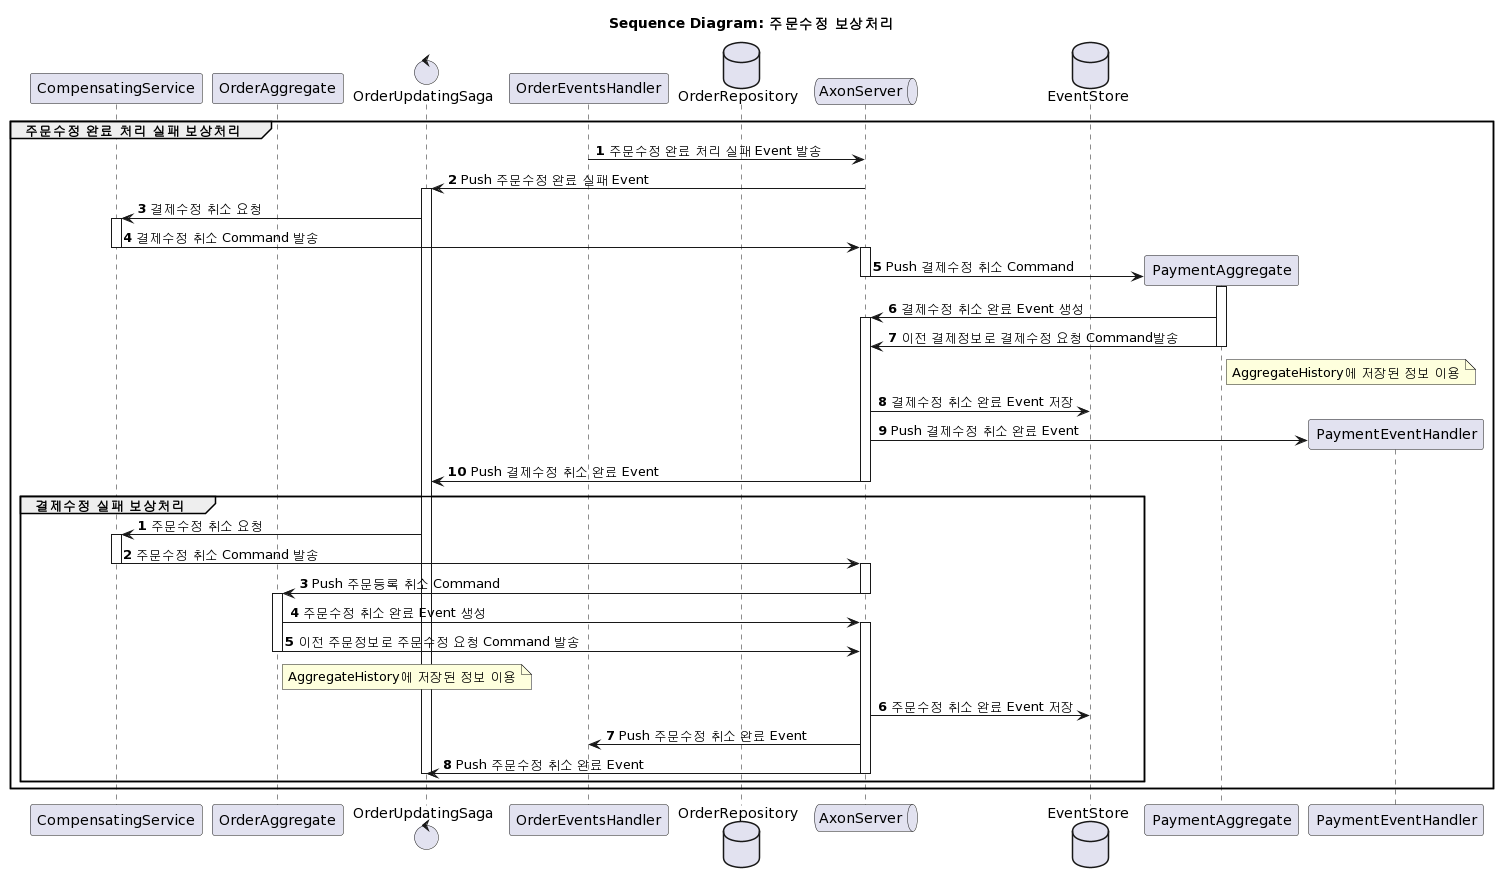
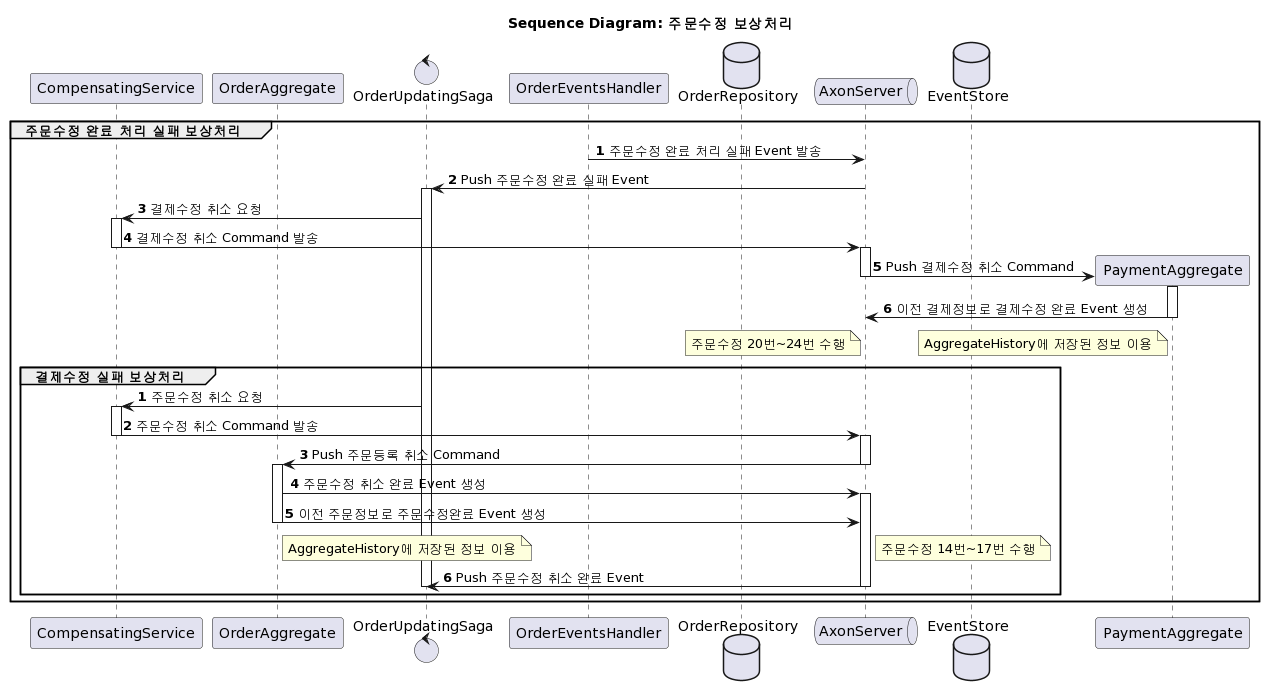
change sequence diagram

diff --git a/payment/src/main/java/com/agilemall/payment/aggregate/PaymentAggregate.java b/payment/src/main/java/com/agilemall/payment/aggregate/PaymentAggregate.java
@@ -8,6 +8,7 @@ import com.agilemall.common.command.update.CancelUpdatePaymentCommand;
 import com.agilemall.common.command.update.UpdatePaymentCommand;
 import com.agilemall.common.dto.PaymentDTO;
 import com.agilemall.common.dto.PaymentDetailDTO;
+import com.agilemall.common.dto.PaymentStatusEnum;
 import com.agilemall.common.events.create.CancelledCreatePaymentEvent;
 import com.agilemall.common.events.create.CreatedPaymentEvent;
 import com.agilemall.common.events.delete.DeletedPaymentEvent;
@@ -143,28 +144,18 @@ public class PaymentAggregate {
     private void handle(CancelUpdatePaymentCommand cancelUpdatePaymentCommand) {
         log.info("[@CommandHandler] Executing CancelUpdatePaymentCommand for Order Id: {} and Payment Id: {}",
                 cancelUpdatePaymentCommand.getOrderId(), cancelUpdatePaymentCommand.getPaymentId());
-        CancelledUpdatePaymentEvent cancelledUpdatePaymentEvent = new CancelledUpdatePaymentEvent();
-        BeanUtils.copyProperties(cancelUpdatePaymentCommand, cancelledUpdatePaymentEvent);
 
-        AggregateLifecycle.apply(cancelledUpdatePaymentEvent);
-
-        //-- 이전 결제정보를 담은 결제 정보 수정 Command를 발송함
         if(this.aggregateHistory.isEmpty()) return;
         PaymentDTO payment = this.aggregateHistory.get(this.aggregateHistory.size()-1);
-        UpdatePaymentCommand cmd = UpdatePaymentCommand.builder()
-                .paymentId(payment.getPaymentId())
-                .orderId(payment.getOrderId())
-                .totalPaymentAmt(payment.getTotalPaymentAmt())
-                .paymentStatus(payment.getPaymentStatus())
-                .paymentDetails(payment.getPaymentDetails())
-                .isCompensation(cancelUpdatePaymentCommand.isCompensation())
-                .build();
-        commandGateway.send(cmd);
-    }
 
-    @EventSourcingHandler
-    private void on(CancelledUpdatePaymentEvent event) {
-        log.info("[@EventSourcingHandler] Executing <CancelledUpdatePaymentEvent> for Order Id: {}", event.getOrderId());
+        UpdatedPaymentEvent event = new UpdatedPaymentEvent();
+        event.setPaymentId(payment.getPaymentId());
+        event.setOrderId(payment.getOrderId());
+        event.setTotalPaymentAmt(payment.getTotalPaymentAmt());
+        event.setPaymentDetails(payment.getPaymentDetails());
+        event.setPaymentStatus(payment.getPaymentStatus());
+        event.setCompensation(true);
+        AggregateLifecycle.apply(event);
 
     }
 
@@ -179,8 +170,8 @@ public class PaymentAggregate {
     private void on(DeletedPaymentEvent event) {
         log.info("[@EventSourcingHandler] Executing DeletedPaymentEvent for Order Id: {} and Payment Id: {}",
                 event.getOrderId(), event.getPaymentId());
-        //this.paymentStatus = PaymentStatusEnum.ORDER_CANCLLED.value();
-        AggregateLifecycle.markDeleted();
+        this.paymentStatus = PaymentStatusEnum.ORDER_CANCLLED.value();
+        //AggregateLifecycle.markDeleted();
     }
 
     @CommandHandler
@@ -188,17 +179,16 @@ public class PaymentAggregate {
         log.info("[@EventSourcingHandler] Executing CancelDeletePaymentCommand for Order Id: {} and Payment Id: {}",
                 cancelDeletePaymentCommand.getOrderId(), cancelDeletePaymentCommand.getPaymentId());
 
-        //-- 이전 결제 정보를 담은 Command객체를 담아 생성 요청을 보냄
+        //-- 이전 결제 정보를 담은 Event객체를 담아 생성처리가 되게 함
         if(this.aggregateHistory.isEmpty()) return;
         PaymentDTO payment = this.aggregateHistory.get(this.aggregateHistory.size()-1);
-        CreatePaymentCommand cmd = CreatePaymentCommand.builder()
-                .paymentId(payment.getPaymentId())
-                .orderId(payment.getOrderId())
-                .totalPaymentAmt(payment.getTotalPaymentAmt())
-                .paymentDetails(payment.getPaymentDetails())
-                .isCompensation(true)
-                .build();
-        commandGateway.send(cmd);
+        CreatedPaymentEvent event = new CreatedPaymentEvent();
+        event.setPaymentId(payment.getPaymentId());
+        event.setOrderId(payment.getOrderId());
+        event.setTotalPaymentAmt(payment.getTotalPaymentAmt());
+        event.setPaymentDetails(payment.getPaymentDetails());
+        event.setCompensation(true);
+        AggregateLifecycle.apply(event);
     }
 
     private PaymentDTO cloneAggregate(PaymentAggregate paymentAggregate) {

diff --git a/order/src/main/java/com/agilemall/order/aggregate/OrderAggregate.java b/order/src/main/java/com/agilemall/order/aggregate/OrderAggregate.java
@@ -190,7 +190,7 @@ public class OrderAggregate {
         this.aggregateHistory.add(cloneAggregate(this));    //보상처리를 위해 이전 정보 저장
 
         this.orderDatetime = event.getOrderDatetime();
-        this.orderStatus = OrderStatusEnum.UPTATED.value();
+        this.orderStatus = event.getOrderStatus();
         this.totalOrderAmt = event.getTotalOrderAmt();
         List<OrderDetail> orderDetails = this.orderDetails.stream().toList();
         this.orderDetails.clear();
@@ -240,34 +240,21 @@ public class OrderAggregate {
     private void handle(CancelUpdateOrderCommand cancelUpdateOrderCommand) {
         log.info("[@CommandHandler] Executing <CancelUpdateOrderCommand> for Order Id: {}", cancelUpdateOrderCommand.getOrderId());
 
-        CancelledUpdateOrderEvent cancelledUpdateOrderEvent = new CancelledUpdateOrderEvent();
-        cancelledUpdateOrderEvent.setOrderId(cancelUpdateOrderCommand.getOrderId());
+        AggregateLifecycle.apply(new CancelledUpdateOrderEvent(cancelUpdateOrderCommand.getOrderId()));
 
-        AggregateLifecycle.apply(cancelledUpdateOrderEvent);
-
-        //-- send UpdateOrderCommand to compensate
         if(this.aggregateHistory.isEmpty()) return;
-
         OrderDTO order = this.aggregateHistory.get(this.aggregateHistory.size() - 1);
-        UpdateOrderCommand cmd = UpdateOrderCommand.builder()
-                .orderId(order.getOrderId())
-                .orderDatetime(order.getOrderDatetime())
-                .totalOrderAmt(order.getTotalOrderAmt())
-                .orderDetails(order.getOrderDetails())
-                .isCompensation(cancelUpdateOrderCommand.isCompensation())           //보상처리 Command 표시
-                .build();
 
-        //불필요한 메모리 사용 방지를 위해 초기화함
-        //@EventSourcingHandler on <UpdatedOrderEvent>에서 다시 적재됨
-
-        commandGateway.send(cmd);
-    }
-
-    @EventSourcingHandler
-    private void on(CancelledUpdateOrderEvent event) {
-        log.info("[@EventSourcingHandler] Executing <CancelledUpdateOrderEvent> for Order Id: {}", event.getOrderId());
+        UpdatedOrderEvent event = new UpdatedOrderEvent();
+        event.setOrderId(order.getOrderId());
+        event.setOrderDatetime(order.getOrderDatetime());
+        event.setTotalOrderAmt(order.getTotalOrderAmt());
+        event.setOrderDetails(order.getOrderDetails());
+        event.setCompensation(true);
+        AggregateLifecycle.apply(event);
 
     }
+
     //============== END:주문 수정 Command 처리 ===================
 
     //============== START:주문 취소 Command 처리 ===================
@@ -290,7 +277,7 @@ public class OrderAggregate {
     @EventSourcingHandler
     private void on(CompletedDeleteOrderEvent event) {
         log.info("[@EventSourcingHandler] Executing <CompletedDeleteOrderEvent> for Order Id: {}", event.getOrderId());
-        AggregateLifecycle.markDeleted();
+        //AggregateLifecycle.markDeleted();
     }
 
     @CommandHandler

diff --git a/delivery/src/main/java/com/agilemall/delivery/aggregate/DeliveryAggregate.java b/delivery/src/main/java/com/agilemall/delivery/aggregate/DeliveryAggregate.java
@@ -5,6 +5,7 @@ import com.agilemall.common.command.create.CreateDeliveryCommand;
 import com.agilemall.common.command.delete.CancelDeleteDeliveryCommand;
 import com.agilemall.common.command.delete.DeleteDeliveryCommand;
 import com.agilemall.common.dto.DeliveryDTO;
+import com.agilemall.common.dto.DeliveryStatusEnum;
 import com.agilemall.common.events.create.CancelledCreateDeliveryEvent;
 import com.agilemall.common.events.create.CreatedDeliveryEvent;
 import com.agilemall.common.events.delete.DeletedDeliveryEvent;
@@ -116,7 +117,6 @@ public class DeliveryAggregate {
         this.aggregateHistory.add(cloneAggregate(this));
     }
 
-
     //================== 배송 정보 삭제 요청 Command 처리 =====================
     @CommandHandler
     private void handle(DeleteDeliveryCommand deleteDeliveryCommand) {
@@ -128,24 +128,24 @@ public class DeliveryAggregate {
     @EventSourcingHandler
     private void on(DeletedDeliveryEvent event) {
         log.info("[@EventSourcingHandler] Executing DeletedPaymentEvent for Delivery Id : {}", event.getDeliveryId());
-        //this.deliveryStatus = DeliveryStatusEnum.ORDER_CANCLLED.value();
-        AggregateLifecycle.markDeleted();
+        this.deliveryStatus = DeliveryStatusEnum.ORDER_CANCLLED.value();
+        //AggregateLifecycle.markDeleted();
     }
 
     @CommandHandler
     private void handle(CancelDeleteDeliveryCommand cancelDeleteDeliveryCommand) {
         log.info("[@EventSourcingHandler] Executing CancelDeleteDeliveryCommand for Delivery Id : {}", cancelDeleteDeliveryCommand.getOrderId());
 
-        //-- 삭제 취소시 rollback은 이전 배송정보를 생성하는 것이므로 이전 배송정보를 읽어 생성 요청 Command를 보냄
+        //-- 삭제 취소시 rollback은 이전 배송정보를 생성하는 것이므로 이전 배송정보를 읽어 생성 요청 Event를 발행
         if (this.aggregateHistory.isEmpty()) return;
         DeliveryDTO delivery = this.aggregateHistory.get(this.aggregateHistory.size() - 1);
-        CreateDeliveryCommand cmd = CreateDeliveryCommand.builder()
-                .deliveryId(delivery.getDeliveryId())
-                .orderId(delivery.getOrderId())
-                .deliveryStatus(delivery.getDeliveryStatus())
-                .isCompensation(true)
-                .build();
-        commandGateway.send(cmd);
+
+        CreatedDeliveryEvent event = new CreatedDeliveryEvent();
+        event.setDeliveryId(delivery.getDeliveryId());
+        event.setOrderId(delivery.getOrderId());
+        event.setDeliveryStatus(delivery.getDeliveryStatus());
+        event.setCompensation(true);
+        AggregateLifecycle.apply(event);
     }
 
     //========= Aggregate 객체 복사

diff --git a/report/src/main/java/com/agilemall/report/events/ReportEventsHandler.java b/report/src/main/java/com/agilemall/report/events/ReportEventsHandler.java
@@ -1,5 +1,6 @@
 package com.agilemall.report.events;
 
+import com.agilemall.common.events.delete.DeletedReportEvent;
 import com.agilemall.common.events.update.UpdatedOrderToReportEvent;
 import com.agilemall.common.events.update.UpdatedPaymentToReportEvent;
 import com.agilemall.report.entity.Report;
@@ -21,6 +22,21 @@ public class ReportEventsHandler {
         this.reportRepository = reportRepository;
     }
 
+    @EventHandler
+    private void on(DeletedReportEvent event) {
+        log.info("[@EventHandler] Handle <DeletedReportEvent> for Order Id: {}", event.getOrderId());
+
+        Optional<Report> optReport = reportRepository.findByOrderId(event.getOrderId());
+        if(optReport.isEmpty()) {
+            log.info("Can't find Report info for Order Id: {}", event.getOrderId());
+            return;
+        }
+        try {
+            reportRepository.delete(optReport.get());
+        } catch(Exception e) {
+            log.error(e.getMessage());
+        }
+    }
     /*
     - 목적: Order데이터 변경 시 Update Report using CQRS패턴
     */

diff --git a/order/src/main/java/com/agilemall/order/saga/OrderUpdatingSaga.java b/order/src/main/java/com/agilemall/order/saga/OrderUpdatingSaga.java
@@ -121,8 +121,13 @@ public class OrderUpdatingSaga {
         log.info("[Saga] [CompletedUpdateOrderEvent] is finished for Order Id: {}", event.getOrderId());
         log.info("===== [Updating Order] Transaction is Finished =====");
 
+        if(event.isCompensation()) {
+            log.info("This event is compensation. So, Do nothing.");
+            return;
+        }
+
         //-- Report service에 주문, 결제, 배송 정보 업데이트: Report update처리를 CQRS패턴으로 변경하여 수행 안함
-        //compensatingService.updateReport(event.getOrderId(), false);
+        compensatingService.updateReport(event.getOrderId(), false);
     }
 
     //================= 보상 처리 =========================

diff --git a/order/src/main/java/com/agilemall/order/saga/OrderDeletingSaga.java b/order/src/main/java/com/agilemall/order/saga/OrderDeletingSaga.java
@@ -159,7 +159,8 @@ public class OrderDeletingSaga {
 
         //주문 삭제 최종 처리 요청
         try {
-            commandGateway.sendAndWait(completeDeleteOrderCommand, Constants.GATEWAY_TIMEOUT, TimeUnit.SECONDS);
+            //commandGateway.sendAndWait(completeDeleteOrderCommand, Constants.GATEWAY_TIMEOUT, TimeUnit.SECONDS);
+            throw new RuntimeException("주문삭제 보상처리 테스트");
         } catch(Exception e) {
             log.error(e.getMessage());
 

diff --git a/report/src/main/java/com/agilemall/report/entity/Report.java b/report/src/main/java/com/agilemall/report/entity/Report.java
@@ -149,6 +149,6 @@ public class Report implements Serializable {
         log.info("[@CommandHandler] Handle <DeleteReportCommand> for Order Id: {}", deleteReportCommand.getOrderId());
 
         AggregateLifecycle.apply(new DeletedReportEvent(deleteReportCommand.getReportId(), deleteReportCommand.getOrderId()));
-        AggregateLifecycle.markDeleted();
+        //AggregateLifecycle.markDeleted();
     }
 }

diff --git a/order/src/main/java/com/agilemall/order/events/OrderEventsHandler.java b/order/src/main/java/com/agilemall/order/events/OrderEventsHandler.java
@@ -138,7 +138,7 @@ public class OrderEventsHandler {
             }
             order.setOrderDetails(order.getOrderDetails());
             order.setTotalOrderAmt(event.getTotalOrderAmt());
-            order.setOrderStatus(OrderStatusEnum.UPTATED.value());
+            order.setOrderStatus(event.getOrderStatus());
             orderRepository.save(order);
 
         } catch(Exception e) {

diff --git a/order/src/main/java/com/agilemall/order/service/OrderService.java b/order/src/main/java/com/agilemall/order/service/OrderService.java
@@ -238,6 +238,7 @@ public class OrderService {
                 .paymentId(payment.getPaymentId())
                 .paymentDetails(newPaymentDetails)
                 .totalPaymentAmt(totalPaymentAmt)
+                .orderStatus(OrderStatusEnum.UPTATED.value())
                 .build();
 
         //-- 주문 수정 Command 발송

diff --git a/order/src/main/java/com/agilemall/order/events/CancelledUpdateOrderEvent.java b/order/src/main/java/com/agilemall/order/events/CancelledUpdateOrderEvent.java
@@ -1,8 +1,10 @@
 package com.agilemall.order.events;
 
+import lombok.AllArgsConstructor;
 import lombok.Data;
 
 @Data   //@Getter @Setter @RequiredArgsConstructor @ToString @EqualsAndHashCode 포함
+@AllArgsConstructor
 public class CancelledUpdateOrderEvent {
     private String orderId;
 }

diff --git a/order/src/main/java/com/agilemall/order/events/UpdatedOrderEvent.java b/order/src/main/java/com/agilemall/order/events/UpdatedOrderEvent.java
@@ -18,5 +18,6 @@ public class UpdatedOrderEvent {
     private List<OrderDetailDTO> orderDetails;
     private List<PaymentDetailDTO> paymentDetails;
     private int totalPaymentAmt;
+    private String orderStatus;
     private boolean isCompensation;
 }

diff --git a/order/src/main/java/com/agilemall/order/command/UpdateOrderCommand.java b/order/src/main/java/com/agilemall/order/command/UpdateOrderCommand.java
@@ -20,5 +20,6 @@ public class UpdateOrderCommand {
     List<OrderDetailDTO> orderDetails;
     List<PaymentDetailDTO> paymentDetails;
     int totalPaymentAmt;
+    String orderStatus;
     boolean isCompensation;
 }
